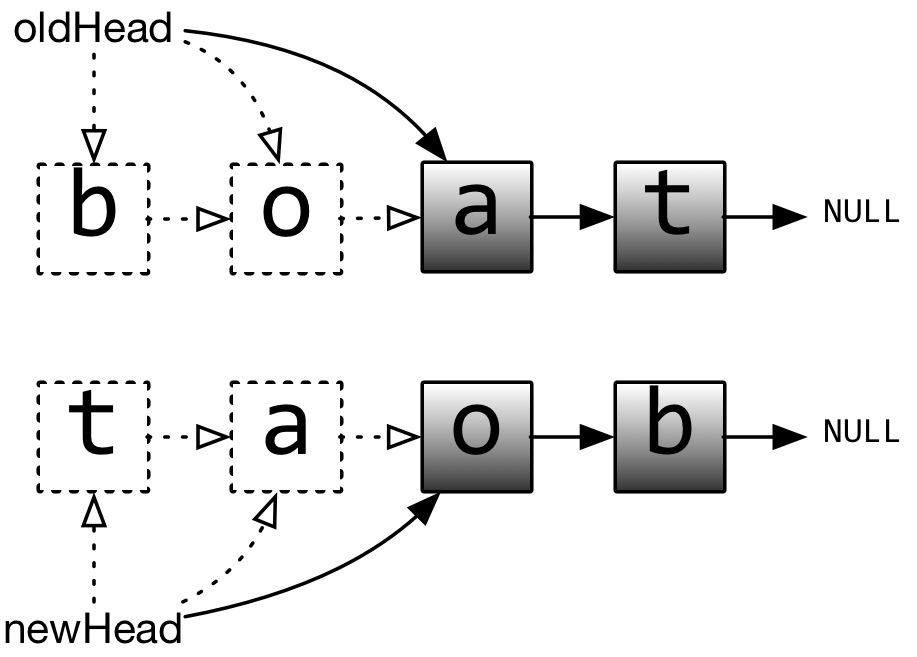
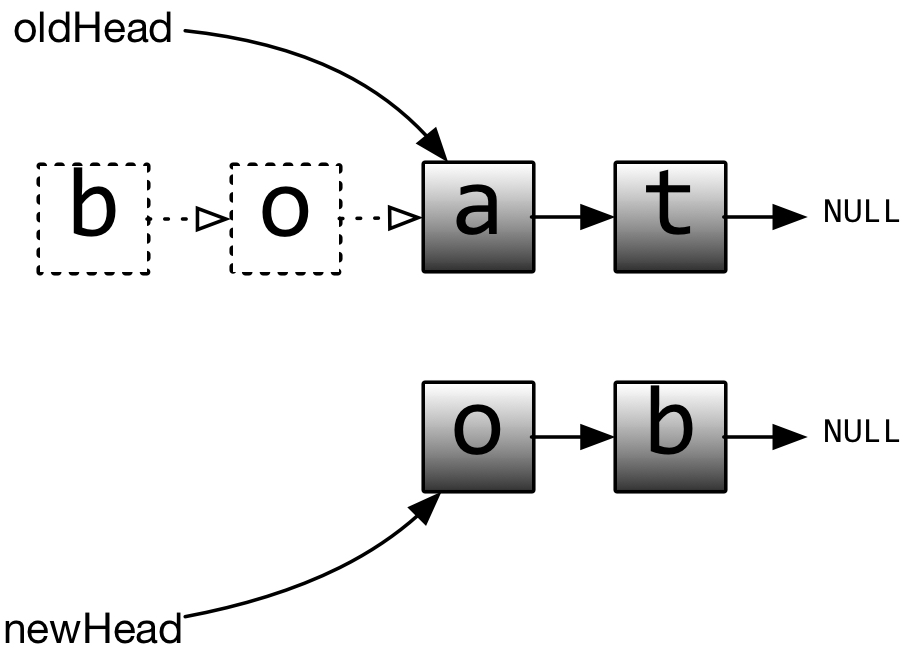
Finish writing the revert linked list section

diff --git a/the-last-mile/sentinels/sentinels.tex b/the-last-mile/sentinels/sentinels.tex
@@ -325,46 +325,55 @@ Now I'm ready to suggest the use of the sentinel for good.
 Look at the algorithm at work as shown in ~\autoref{fig:RevertLinkedList.algo}.
 You may have noticed that I choose to snapshot the algorithm when there
 are a visible stack of nodes on the \code{newHead} and a visible queue of
-nodes on \code{oldHead} remaining to be processed.
-I do this for the purpose of suggesting the `flow', the momentum of the algorithm---that nodes
-are being transferred from the old pile to the new in so and so way.
-the motion when both piles has no mass and that may obstruct the
+nodes on \code{oldHead}.
+With these, human imagination will be winged to make up the missing parts and
+conjure up the `flow', the momentum of the algorithm---that nodes
+are being transferred from the shrinking old pile to the growing new pile.
 
-I didn't snapshot the algorithm at the beginning or end because that way the onus is on the readers
-to imagine part of the
-motion picture---the missing pile to detach from or attach to the node in transit.
-You see that human imagination flows well with a nucleus, a starting point, a stub to begin with.
+I didn't snapshot the algorithm at the beginning or end because that way the onus is on the reader
+to figure out the missing pile to detach from or attach to the node in transit.
+You see that human imagination power is inhibited with the lack of a nucleus, a starting point,
+a stub to begin with.
 A cold start is always harder than a hot one.
-Unfortunately at the beginning of the algorithm it is always going to be a cold start and we don't
-have such a luxury.
-But we can create one, can't we?
-We can artificially place an anchoring sentinel node and assign it to the \code{newHead}.
-Then we have a `nucleus' to begin with and the rest of the task all of a sudden seems intuitive,
-the momentum is built up, and the `flow' is started.
+Unfortunately at the beginning of algorithm design, developers is always going to face a cold start
+and one usually does not have the luxury of a anchoring stub to begin with.
+But sometimes we can create one, and now it is the case.
+Let us create an anchoring node and assign it to the \code{newHead}.
+Now we have a clear `anchor' to attach nodes on and all of a sudden, the rest of the task becomes
+intuitive---remove next node from the \code{oldHead}, insert it immediately after \code{anchor}.
+The momentum is built up, and the `flow' is started.
+After all the nodes in the old linked list have been transferred, the anchor can be removed and
+what remains is the result.
+Following this thread, I am providing a revised implementation in
+~\autoref{lst:revertLinkedList.sentinel}.
 \lstinputlisting[label={lst:revertLinkedList.sentinel},
 caption={Code for validating abbreviation of a word with use of sentinel.}]
 {sentinels/reverse_linked_list_sentinel.py}
-The benefits are two-fold.
-For one, it unleashes our imagination power about how the algorithm works.
+As one can see the benefits of using an anchoring sentinel are two-fold.
+For one, it unleashes our brain's visualization power about how the algorithm works.
 It also frees up our mind from worrying about `null-pointer exception' so that it can focus on
-the `flow', the momentum part of the algorithm.
+the main part of the algorithm.
 This is the psychological benefit.
-For other, it simplifies our coding task---our code doesn't need to deal with the case when
-\code{newHead == None}.
+For other, it simplifies our coding task---our code doesn't need to deal with the case
+\code{newHead == None} any more.
 This is reflected in the simpler code in ~\autoref{lst:ValidWordAbbrev.sentinel}.
 
 Some elaboration on sentinels.
-The working of sentinels has physical corroborations in nature.
-The mechanism sentinels work is reminiscent to that of water vapor condensation, for instance.
-In order for water vapor to readily condense, cloud condensation nuclei are required.
-Otherwise, oversaturation would occur, that is water vapor remaining in vaporous state below ice
-point for hours.
-You see, even the process of water vapor condensation is made easier with the use of sentinels.
-In fact, many catalysts in chemistry and enzymes in biology work with similar mechanism.
-In the context of quantum physics, catalysts and enzymes provide an energy barrier
-bypass, a detour to the otherwise normal path, for chemical reactions to take place while
+The working of sentinels has physical analogy in nature.
+The mechanism by which sentinel works is reminiscent to that of water vapor condensation, for
+instance.
+Water vapor condensation often takes place on the surface of something---
+water bottle, stone, leaves, \textit{etc.}
+Water vapor in the cloud also condenses on some non-gaseous core called `cloud condensation nuclei'
+or CCN for short ~\cite{condensation:2005}.
+Spontaneous condensation is possible but that has to overcome a huge energy barrier and
+only takes place after spending hours in the so-called supersaturated state.
+You see, even rain has to make use of sentinels.
+Also, catalysts, enzymes in biological organisms in particularly, work in a similar mechanism.
+In light of quantum physics, catalysts and enzymes provide a bypass to an energy barrier,
+a detour to the otherwise upheaval path for chemical reactions to take place while
 their identities remain intact.
-In this sense, it is not an exaggeration to call sentinels the `catalysts for programming'.
+In this sense, it is not exaggerating to call sentinels the `catalysts for programming'.
 
 \section{Boundary padding sentinels}\label{sec:boundaryPaddingSentinels}
 
